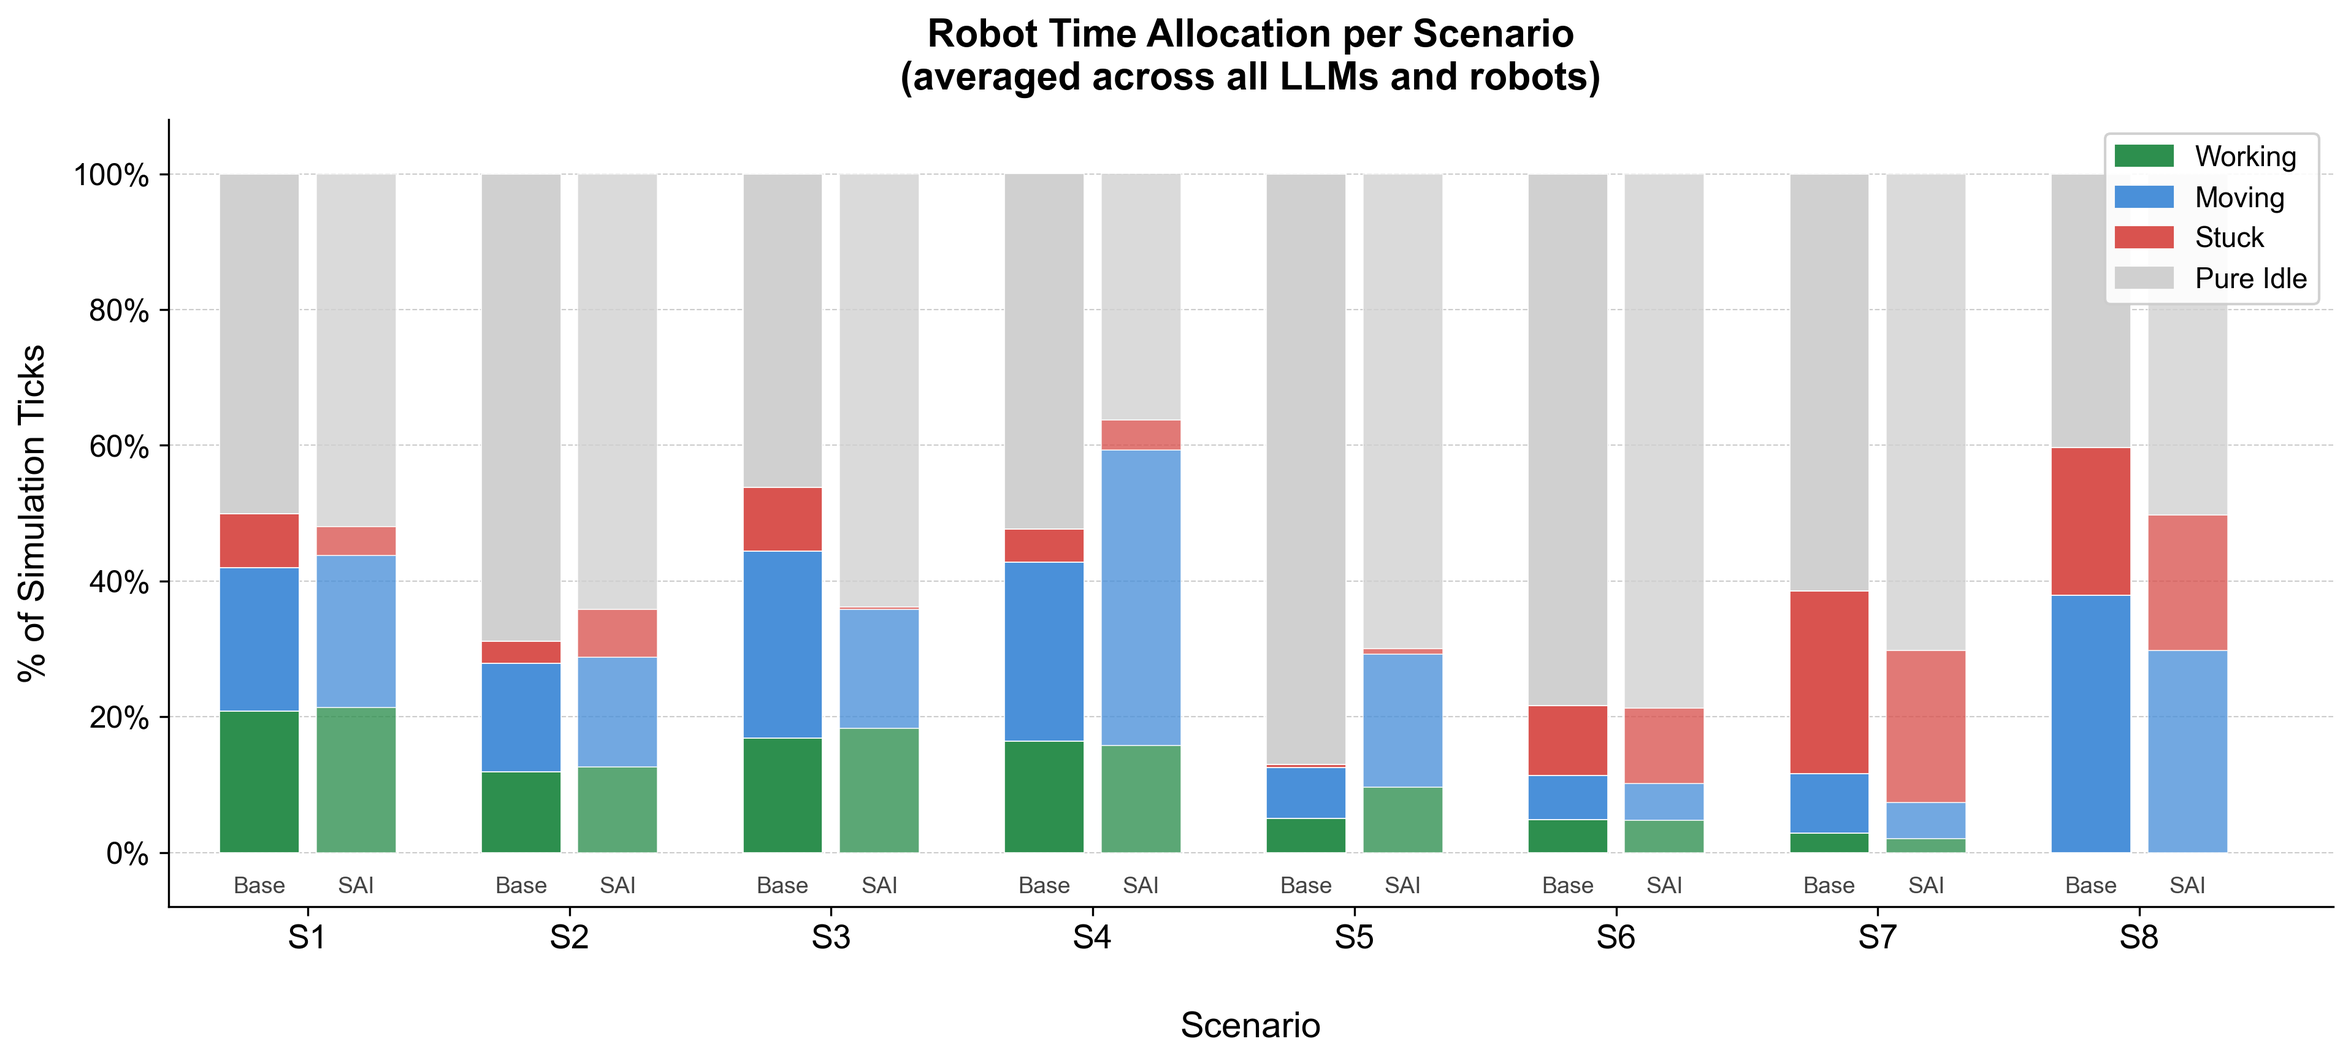
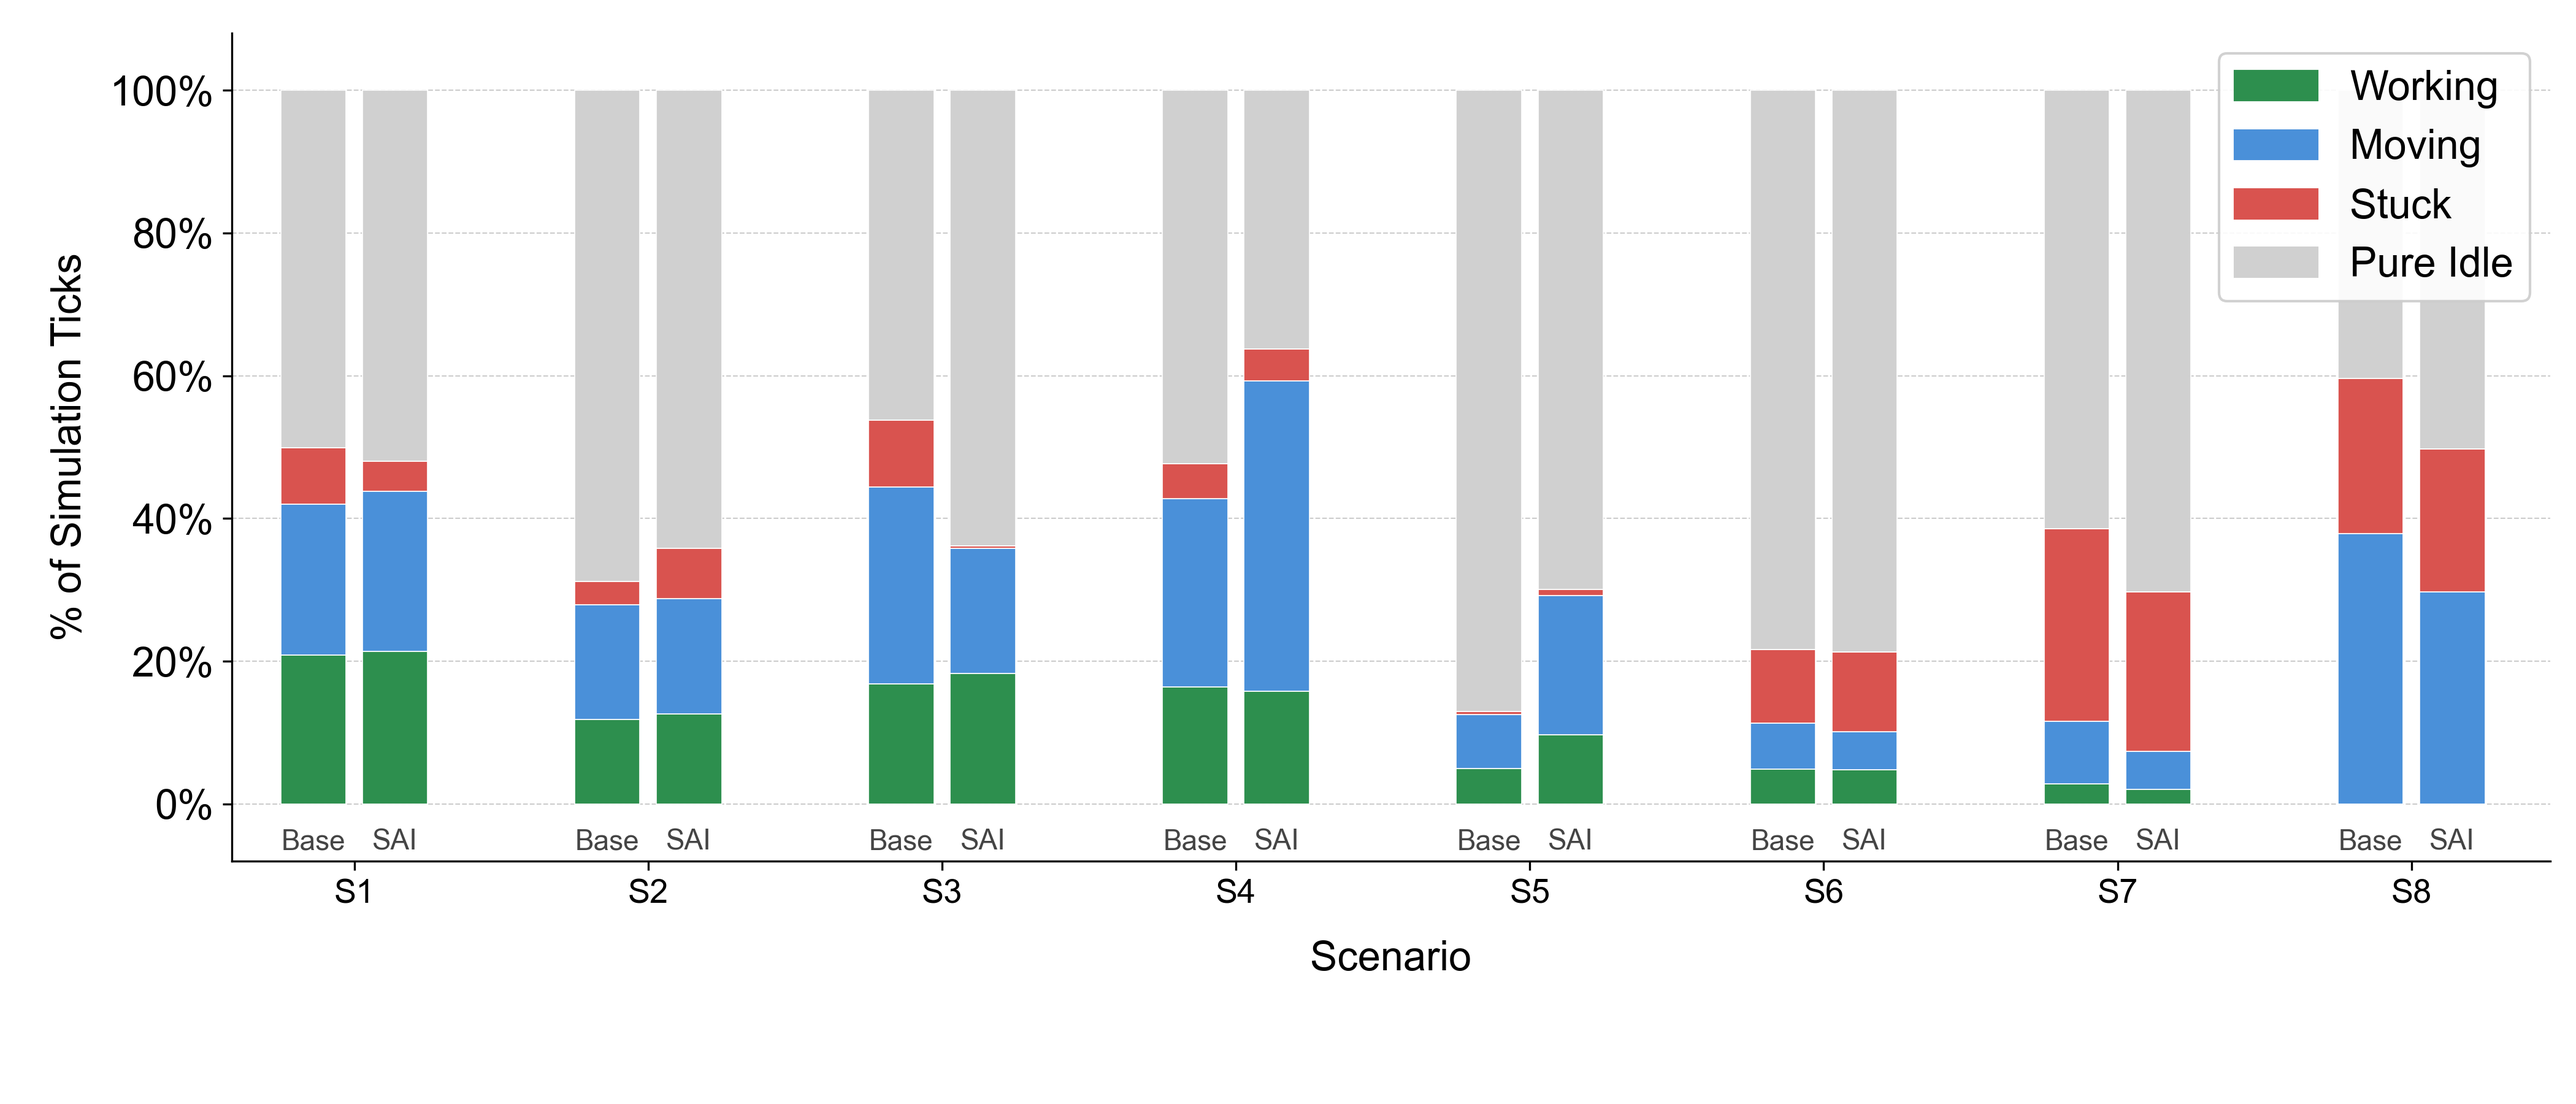
Add script to generate stacked bar chart for robot LLM time allocation
- Implemented data loading from Excel files for 8 scenarios.
- Aggregated time allocation data per LLM and condition.
- Created a stacked bar chart visualizing working, moving, stuck, and pure idle time.
- Configured chart aesthetics and saved output as PNG in the 'figures' directory.

diff --git a/make_robot_llm_timeshare.py b/make_robot_llm_timeshare.py
@@ -1,0 +1,139 @@
+"""
+Stacked bar chart — Robot time allocation per LLM.
+
+X-axis: 9 LLMs (ordered by baseline task completion rate, matching other figures)
+Each LLM has two bars: Baseline and SAI.
+Data is averaged across all 8 scenarios and all robots within each (llm, condition).
+
+Four segments (always sum to 100%):
+  Working   — actively doing work on a task
+  Moving    — travelling toward a task
+  Stuck     — tried to move but was blocked
+  Pure Idle — no assignment / waiting  (= idle − stuck)
+
+Saved to: figures/fig_robot_llm_timeshare.png
+"""
+
+import os
+from collections import defaultdict
+
+import matplotlib
+matplotlib.use('Agg')
+import matplotlib.pyplot as plt
+import matplotlib.patches as mpatches
+import numpy as np
+import openpyxl
+
+os.makedirs('figures', exist_ok=True)
+
+# ── 1. Load data ──────────────────────────────────────────────────────────────
+all_rows = []
+for i in range(1, 9):
+    wb = openpyxl.load_workbook(f'scenario_{i:02d}.xlsx')
+    ws = wb['robots']
+    headers = [c.value for c in ws[1]]
+    for row in ws.iter_rows(min_row=2, values_only=True):
+        if any(v is not None for v in row):
+            all_rows.append(dict(zip(headers, row)))
+
+all_rows = [r for r in all_rows if r['llm'] != 'gemma-3-27b']
+
+# ── 2. Aggregate per (llm, condition) across all scenarios ────────────────────
+agg = defaultdict(lambda: {'w': [], 'm': [], 'idle': [], 'stuck': []})
+for r in all_rows:
+    key = (r['llm'], r['override_type'])
+    agg[key]['w'].append(r['ticks_working'] or 0)
+    agg[key]['m'].append(r['ticks_moving']  or 0)
+    agg[key]['idle'].append(r['ticks_idle'] or 0)
+    agg[key]['stuck'].append(r['ticks_stuck'] or 0)
+
+LLM_ORDER = [
+    'gemma-4-26b-a4b', 'gpt-4o', 'claude-haiku', 'deepseek-r1',
+    'asi1', 'gemini-2.0-flash', 'llama-3.3-70b', 'qwen3-32b', 'gpt-oss-20b',
+]
+LLM_LABELS = [
+    'Gemma-4-26B', 'GPT-4o', 'Claude-Haiku', 'DeepSeek-R1',
+    'ASI1', 'Gemini-2.0-Flash', 'LLaMA-3.3-70B', 'Qwen3-32B', 'GPT-OSS-20B',
+]
+CONDITIONS  = ['baseline', 'structured_override']
+
+def get_segments(llm, cond):
+    key = (llm, cond)
+    vals = agg[key]
+    n = len(vals['w'])
+    if n == 0:
+        return [0, 0, 0, 0]
+    avg_w  = sum(vals['w'])    / n
+    avg_m  = sum(vals['m'])    / n
+    avg_s  = sum(vals['stuck'])/ n
+    avg_i  = sum(vals['idle']) / n
+    pure_i = max(0.0, avg_i - avg_s)
+    return [avg_w, avg_m, avg_s, pure_i]   # [working, moving, stuck, pure_idle]
+
+# ── 3. Plot ───────────────────────────────────────────────────────────────────
+plt.rcParams.update({'font.family': 'Arial', 'font.size': 16})
+
+COLORS = {
+    'Working':   '#2d8f4e',
+    'Moving':    '#4a90d9',
+    'Stuck':     '#d9534f',
+    'Pure Idle': '#d0d0d0',
+}
+SEG_KEYS = ['Working', 'Moving', 'Stuck', 'Pure Idle']
+
+bar_w     = 0.32
+gap       = 0.08          # gap between baseline and SAI within a group
+group_gap = 0.55          # gap between LLM groups
+
+fig, ax = plt.subplots(figsize=(14, 6))
+fig.patch.set_facecolor('white')
+ax.set_facecolor('white')
+
+x_ticks, x_labels = [], []
+
+for g_idx, (llm, label) in enumerate(zip(LLM_ORDER, LLM_LABELS)):
+    group_centre = g_idx * (2 * bar_w + gap + group_gap)
+
+    for c_idx, cond in enumerate(CONDITIONS):
+        x = group_centre + c_idx * (bar_w + gap)
+        segs = get_segments(llm, cond)
+        bottom = 0.0
+        for seg_name, val in zip(SEG_KEYS, segs):
+            ax.bar(x, val, bar_w, bottom=bottom,
+                   color=COLORS[seg_name], alpha=1.0,
+                   edgecolor='white', linewidth=0.4)
+            bottom += val
+
+        cond_label = 'Base' if cond == 'baseline' else 'SAI'
+        ax.text(x, -3.5, cond_label, ha='center', va='top',
+                fontsize=11, fontfamily='Arial', color='#444444')
+
+    # LLM label centred under the pair
+    pair_centre = group_centre + (bar_w + gap) / 2
+    x_ticks.append(pair_centre)
+    x_labels.append(label)
+
+# ── Axes ──────────────────────────────────────────────────────────────────────
+ax.set_xticks(x_ticks)
+ax.set_xticklabels(x_labels, fontsize=13, fontfamily='Arial', rotation=15, ha='right')
+ax.set_xlim(-0.4, x_ticks[-1] + bar_w + group_gap / 2)
+ax.set_ylim(-8, 108)
+ax.set_yticks(range(0, 101, 20))
+ax.set_yticklabels([f'{v}%' for v in range(0, 101, 20)], fontsize=16, fontfamily='Arial')
+ax.set_ylabel('% of Simulation Ticks', fontsize=16, labelpad=8, fontfamily='Arial')
+ax.set_xlabel('LLM', fontsize=16, labelpad=12, fontfamily='Arial')
+
+ax.yaxis.grid(True, linestyle='--', linewidth=0.5, alpha=0.6, color='#aaaaaa')
+ax.set_axisbelow(True)
+for spine in ['top', 'right']:
+    ax.spines[spine].set_visible(False)
+
+patches = [mpatches.Patch(color=COLORS[k], label=k) for k in SEG_KEYS]
+ax.legend(handles=patches, loc='upper right', fontsize=16,
+          framealpha=0.9, edgecolor='#cccccc')
+
+plt.subplots_adjust(left=0.09, right=0.99, top=0.97, bottom=0.22)
+out = 'figures/fig_robot_llm_timeshare.png'
+plt.savefig(out, dpi=300, facecolor='white')
+plt.close(fig)
+print(f'Saved: {out}')

diff --git a/make_robot_timeshare.py b/make_robot_timeshare.py
@@ -69,7 +69,7 @@ for sc in SCENARIOS:
         segments[key] = [avg_w, avg_m, avg_s, pure_i]
 
 # ── 3. Plot ───────────────────────────────────────────────────────────────────
-plt.rcParams.update({'font.family': 'Arial', 'font.size': 14})
+plt.rcParams.update({'font.family': 'Arial', 'font.size': 16})
 
 COLORS = {
     'Working':   '#2d8f4e',   # dark green
@@ -79,13 +79,12 @@ COLORS = {
 }
 SEG_KEYS   = ['Working', 'Moving', 'Stuck', 'Pure Idle']
 
-n_scenarios = len(SCENARIOS)
-n_conds     = len(CONDITIONS)
-bar_w       = 0.35
-group_gap   = 0.15                        # gap between conditions inside one group
-group_w     = n_conds * bar_w + group_gap # total width of one scenario group
+bar_w     = 0.32
+gap       = 0.08
+group_gap = 0.72   # widened so 8 scenario groups span the same x-range as
+                   # the 9-LLM figure → bars render at identical physical width
 
-fig, ax = plt.subplots(figsize=(13, 6))
+fig, ax = plt.subplots(figsize=(14, 6))
 fig.patch.set_facecolor('white')
 ax.set_facecolor('white')
 
@@ -93,39 +92,33 @@ x_ticks = []
 x_labels = []
 
 for g_idx, sc in enumerate(SCENARIOS):
-    group_centre = g_idx * (group_w + 0.3)
+    group_centre = g_idx * (2 * bar_w + gap + group_gap)
     for c_idx, cond in enumerate(CONDITIONS):
-        x = group_centre + c_idx * (bar_w + group_gap / n_conds)
-        segs = segments[(sc, cond)]        # [working, moving, stuck, pure_idle]
+        x = group_centre + c_idx * (bar_w + gap)
+        segs = segments[(sc, cond)]
         bottom = 0.0
-        for s_idx, (seg_name, val) in enumerate(zip(SEG_KEYS, segs)):
-            color = COLORS[seg_name]
-            # Slight transparency for SAI bars so baseline is more prominent
-            alpha = 1.0 if cond == 'baseline' else 0.78
-            ax.bar(x, val, bar_w, bottom=bottom, color=color, alpha=alpha,
-                   edgecolor='white', linewidth=0.4)
+        for seg_name, val in zip(SEG_KEYS, segs):
+            ax.bar(x, val, bar_w, bottom=bottom, color=COLORS[seg_name],
+                   alpha=1.0, edgecolor='white', linewidth=0.4)
             bottom += val
 
-        # Label each bar with condition abbreviation
         label = 'Base' if cond == 'baseline' else 'SAI'
-        ax.text(x, -3.5, label, ha='center', va='top', fontsize=9,
+        ax.text(x, -3.5, label, ha='center', va='top', fontsize=11,
                 fontfamily='Arial', color='#444444')
 
-    # Scenario tick mark at group centre
-    x_ticks.append(group_centre + (bar_w + group_gap / n_conds) / 2)
+    pair_centre = group_centre + (bar_w + gap) / 2
+    x_ticks.append(pair_centre)
     x_labels.append(f'S{g_idx+1}')
 
 # ── Axes formatting ───────────────────────────────────────────────────────────
 ax.set_xticks(x_ticks)
 ax.set_xticklabels(x_labels, fontsize=13, fontfamily='Arial')
-ax.set_xlim(-0.4, x_ticks[-1] + group_w)
+ax.set_xlim(-0.4, x_ticks[-1] + bar_w + group_gap / 2)
 ax.set_ylim(-8, 108)
 ax.set_yticks(range(0, 101, 20))
-ax.set_yticklabels([f'{v}%' for v in range(0, 101, 20)], fontsize=12, fontfamily='Arial')
-ax.set_ylabel('% of Simulation Ticks', fontsize=14, labelpad=8, fontfamily='Arial')
-ax.set_xlabel('Scenario', fontsize=14, labelpad=22, fontfamily='Arial')
-ax.set_title('Robot Time Allocation per Scenario\n(averaged across all LLMs and robots)',
-             fontsize=15, fontweight='bold', pad=12, fontfamily='Arial')
+ax.set_yticklabels([f'{v}%' for v in range(0, 101, 20)], fontsize=16, fontfamily='Arial')
+ax.set_ylabel('% of Simulation Ticks', fontsize=16, labelpad=8, fontfamily='Arial')
+ax.set_xlabel('Scenario', fontsize=16, labelpad=12, fontfamily='Arial')
 
 # Gridlines
 ax.yaxis.grid(True, linestyle='--', linewidth=0.5, alpha=0.6, color='#aaaaaa')
@@ -135,11 +128,11 @@ for spine in ['top', 'right']:
 
 # Legend
 patches = [mpatches.Patch(color=COLORS[k], label=k) for k in SEG_KEYS]
-ax.legend(handles=patches, loc='upper right', fontsize=11,
+ax.legend(handles=patches, loc='upper right', fontsize=16,
           framealpha=0.9, edgecolor='#cccccc')
 
-plt.tight_layout()
+plt.subplots_adjust(left=0.09, right=0.99, top=0.97, bottom=0.22)
 out = 'figures/fig_robot_timeshare.png'
-plt.savefig(out, dpi=300, bbox_inches='tight', facecolor='white')
+plt.savefig(out, dpi=300, facecolor='white')
 plt.close(fig)
 print(f'Saved: {out}')
